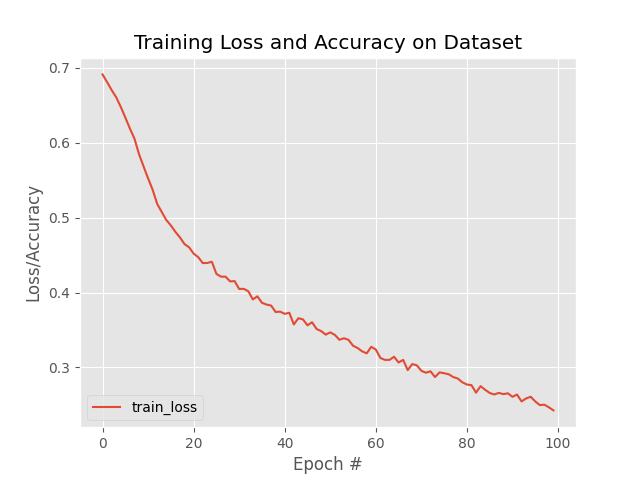
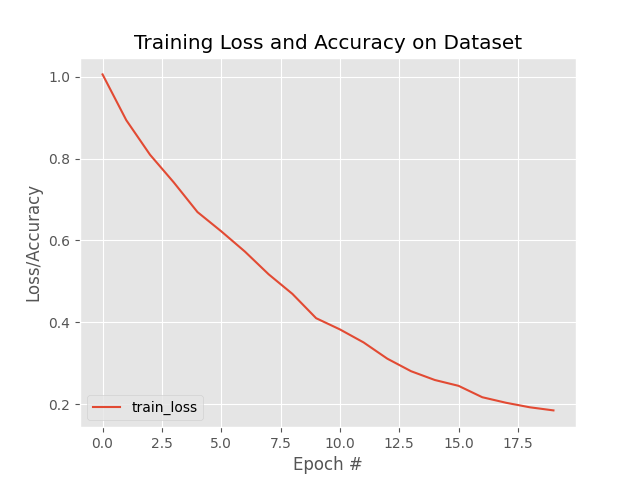
Updated movieRecommender

diff --git a/machineLearning/movieRecommender/movieRecommender.py b/machineLearning/movieRecommender/movieRecommender.py
@@ -1,15 +1,16 @@
 # File        :   movieRecommender.py
-# Version     :   0.0.8
+# Version     :   0.0.9
 # Description :   Script that implements a movie recommendation system based on genre keywords
 
-# Date:       :   May 06, 2023
+# Date:       :   May 08, 2023
 # Author      :   Ricardo Acevedo-Avila (racevedoaa@gmail.com)
 # License     :   MIT
+
 
 import pandas as pd
 import numpy as np
 import random
-from bookNet import booknet
+from bookNet import movieNet
 from tensorflow.keras.models import load_model
 
 from tensorflow.keras.utils import plot_model
@@ -17,8 +18,8 @@ import matplotlib.pyplot as plt
 
 
 # Returns True if an array is found in an array list:
-def is_arr_in_list(myarr, list_arrays):
-    return next((True for elem in list_arrays if elem is myarr), False)
+def isArrayInList(inputArray, arrayList):
+    return next((True for item in arrayList if item is inputArray), False)
 
 
 # Batch Generator:
@@ -96,8 +97,8 @@ def generateBatch(pairs, moviesDicts, genresDicts, moviesGenresDict, n_positive=
             # randomVector = pairs[0]
 
             # Check to make sure this is not a positive example
-            results = is_arr_in_list(randomVector, pairs)
-            if not (is_arr_in_list(randomVector, pairs)):
+            results = isArrayInList(randomVector, pairs)
+            if not (isArrayInList(randomVector, pairs)):
                 # Add to batch and increment index
                 batch[i][0:genresVectorLength + 1] = randomVector
                 batch[i][-1] = negLabel
@@ -122,10 +123,11 @@ datasetName = "imdb_movie_keyword_small.csv"
 modelFilename = "bookRecommender.model"
 
 # DNN Setup:
-classificationMode = True
+embeddingSize = (60, 60)
+classificationMode = False
 activationLayer = "softmax"
-trainingEpochs = 100
-gamma = 1.0
+trainingEpochs = 20
+gamma = 1.5
 learningRate = gamma * 1e-3
 
 # DNN options:
@@ -246,7 +248,7 @@ for movie in moviesDictionary:
 
 # Create pairs of real movie title + real (un ordered) genres:
 pairs = []
-totalPairs = 500
+totalPairs = 200
 
 random.seed(100)
 # Randomly sample a row from the encoded dataset:
@@ -319,9 +321,9 @@ else:
 
     # movies vocabulary length -> 100 [0, 99 (inclusive)] movies
     # genres vocabulary length -> 20 [0, 19 (inclusive)] genres
-    model = booknet.build(embeddingSize=50, movieDictionaryLength=len(moviesDictionary),
-                          genresDictionaryLength=len(genresDictionary) + 1, classification=classificationMode,
-                          activationFunction=activationLayer, alpha=learningRate, epochs=trainingEpochs)
+    model = movieNet.build(embeddingSize=embeddingSize, movieDictionaryLength=len(moviesDictionary),
+                           genresDictionaryLength=len(genresDictionary) + 1, classification=classificationMode,
+                           activationFunction=activationLayer, alpha=learningRate, epochs=trainingEpochs)
 
     model.summary()
 
@@ -387,9 +389,13 @@ print("[INFO] -- Movies Embeddings Shape: ")
 print(" ", moviesWeights.shape)
 
 # Get genres embedding from a genres query:
+genresQuery = ["Drama", "Crime"]
 totalQueryKeywords = columns
-genresQuery = ["Sci-Fi", "Drama"]
-genreEmbeddingsVector = []
+
+# Store the total sum of each keyword embedding here:
+genreEmbeddingsSum = 0
+
+# For each keyword/genre in the list, get its embedding:
 for g in range(totalQueryKeywords):
     # Get genre:
     if g < len(genresQuery):
@@ -402,50 +408,60 @@ for g in range(totalQueryKeywords):
 
     # Get embedding:
     genreWeight = genresWeights[genreCode]
-    # Add to list:
-    genreEmbeddingsVector.append(genreWeight)
+    # Accumulate-sum the embedding:
+    genreEmbeddingsSum = genreEmbeddingsSum + genreWeight
 
 # To numpy array:
-genreEmbeddingsVector = np.array(genreEmbeddingsVector)
+genreEmbeddingsVector = np.array(genreEmbeddingsSum)  # Shape should be (embeddingSize,)
+
 # Get embeddings shape:
 totalMovies = moviesWeights.shape[0]
-totalGenres = genreEmbeddingsVector.shape[0]
 
+# Compute dot product between the sum embeddings from the keywords/genres
+# and the movies embeddings (this could be vectorized)...
+# Store distances here:
 embeddingDistances = []
 for m in range(totalMovies):
+    # Get current movie embedding:
     currentMovie = moviesWeights[m]
-    tempList = []
-    for g in range(totalGenres):
-        currentGenre = genreEmbeddingsVector[g]
-        # Dot product:
-        currentDist = np.dot(currentMovie, currentGenre)
-        # Add to temp list:
-        tempList.append(currentDist)
-    print(tempList)
-    totalSum = sum(tempList)
-    embeddingDistances.append(totalSum)
+    # Dot product:
+    currentDist = np.dot(currentMovie, genreEmbeddingsVector)
+    # Add to temp list:
+    embeddingDistances.append(currentDist)
 
-maxDist = max(embeddingDistances)
-minDist = min(embeddingDistances)
-print((maxDist, minDist))
+# # Get max/min score of recommendations:
+# maxDist = max(embeddingDistances)
+# minDist = min(embeddingDistances)
+# print((maxDist, minDist))
+
+# Store the results here. They will be stored as
+# the tuple: (distance, movie title, keywords)
 resultsList = []
 
+# For all the dot-product produced distances:
 for d in range(len(embeddingDistances)):
+
+    # Get distance and decode movie title and keywords:
     currentDistance = embeddingDistances[d]
     movieTitle = moviesDictionaryReverse[d]
     movieGenres = moviesGenresDictionary[d]
+    # Concatenate all keywords in one, final string:
     genreString = ""
+
+    # Create the results. Add every decoded keyword
+    # to the final keyword string:
     for i in movieGenres:
+        # Skip the keyword/genre = 0
         if i > 0:
             genreString = genreString + genresDictionaryReverse[i] + ", "
-
+    # Drop the last ", ":
     genreString = genreString[:-2]
-
+    # Into the results list
     resultsList.append((currentDistance, movieTitle, genreString))
-    # print(d, resultsList[d])
 
 # Sort the list from largest to smallest distance:
 resultsList.sort(reverse=True)
 print("[INFO] Movie recommendations for: ", genresQuery)
+# Print the recommendations:
 for d in range(len(embeddingDistances)):
     print("", d, "-", resultsList[d])

diff --git a/machineLearning/movieRecommender/movienet.py b/machineLearning/movieRecommender/movienet.py
@@ -1,9 +1,9 @@
-# File        :   bookNet.py
-# Version     :   1.0.0
+# File        :   movienet.py
+# Version     :   1.1.0
 # Description :   Script that implements a simple embedding-net using the Kera's Functional API
 #                 based on: https://github.com/WillKoehrsen/wikipedia-data-science/blob/master/notebooks/
 #                 Book%20Recommendation%20System.ipynb
-# Date:       :   May 01, 2023
+# Date:       :   May 08, 2023
 # Author      :   Ricardo Acevedo-Avila (racevedoaa@gmail.com)
 # License     :   MIT
 
@@ -16,54 +16,65 @@ from tensorflow.keras.layers import Reshape
 from tensorflow.keras.layers import Dense
 from tensorflow.keras.optimizers import Adam
 
-from tensorflow.keras.layers import Flatten
+from tensorflow.keras.layers import Add
 
-class booknet:
+
+class movieNet:
     @staticmethod
     # DNN Model to embed books and wikilinks using the functional API.
     # Trained to discern if a link is present in an article:
-    def build(embeddingSize=50, movieDictionaryLength=1, genresDictionaryLength=1,
+    def build(embeddingSize=(50, 50), movieDictionaryLength=1, genresDictionaryLength=1,
               classification=False, activationFunction="sigmoid", alpha=0.001, epochs=10):
 
         # Both inputs are 1-dimensional
         movies = Input(name="movie", shape=[1], dtype="float64")
         genres = Input(name="genres", shape=(3,), dtype="float64")
 
+        # Extract embedding sizes:
+        titleEmbeddingSize = embeddingSize[0]
+        genresEmbeddingSize = embeddingSize[1]
+
         # Embedding the book (shape will be (None, 1, 50))
         movieEmbedding = Embedding(name="movieEmbedding", input_dim=movieDictionaryLength,
-                                   output_dim=embeddingSize)(movies)
+                                   output_dim=titleEmbeddingSize)(movies)
 
         # Embedding the link (shape will be (None, 1, 50))
         genresEmbedding = Embedding(name="genresEmbedding", input_dim=genresDictionaryLength,
-                                    output_dim=embeddingSize)(genres)
+                                    output_dim=genresEmbeddingSize)(genres)
 
         print("movie embeddings", movieEmbedding.shape)
         print("genre embeddings", genresEmbedding.shape)
 
-        # Merge the layers with a dot product along the second axis (shape will be (None, 1, 1))
-        merged = Dot(name="dot_product", normalize=True, axes=2)([movieEmbedding, genresEmbedding])
+        # Slice tensors to get the individual genres/keywords embeddings:
+        gen1 = genresEmbedding[:, 0:1, :]
+        gen2 = genresEmbedding[:, 1:2, :]
+        gen3 = genresEmbedding[:, 2:3, :]
 
+        # Add the n individual embeddings to get a final
+        # tensor:
+        addedGenres = Add(name="addLayer")([gen1, gen2, gen3])
+        print("addedGenres", addedGenres.shape)
+
+        # Merge the input layers with a dot product along the second axis (shape will be (None, 1, 1))
+        merged = Dot(name="dot_product", normalize=True, axes=2)([movieEmbedding, addedGenres])
         print("dot out", merged.shape)
 
         # Reshape to be a single number (shape will be (None, 1))
-        # merged = Reshape(target_shape=(3, 1))(merged)
-        flat = Flatten()(merged)
-
-        print("flatten out", flat.shape)
+        reshaped = Reshape(target_shape=(1,))(merged)
+        print("reshaped out", reshaped.shape)
 
         # Set the optimizer:
         optimizer = Adam(lr=alpha, decay=alpha / (epochs * 0.5))
 
         # If classification, add extra layer and loss function is binary cross entropy
         print("Classification", classification)
+
         if classification:
             # Choose activation function:
-            # if activationFunction == "softmax":
-            #     merged = Dense(1, activation="softmax")(merged)
-            # else:
-            #     merged = Dense(1, activation="sigmoid")(merged)
-
-            output = Dense(1, activation="softmax")(flat)
+            if activationFunction == "softmax":
+                output = Dense(1, activation="softmax")(reshaped)
+            else:
+                output = Dense(1, activation="sigmoid")(reshaped)
 
             print("output", output.shape)
 
@@ -72,7 +83,8 @@ class booknet:
 
         # Otherwise loss function is mean squared error
         else:
-            model = Model(inputs=[movies, genres], outputs=flat)
+
+            model = Model(inputs=[movies, genres], outputs=reshaped)
             model.compile(optimizer=optimizer, loss="mse")
 
         return model
